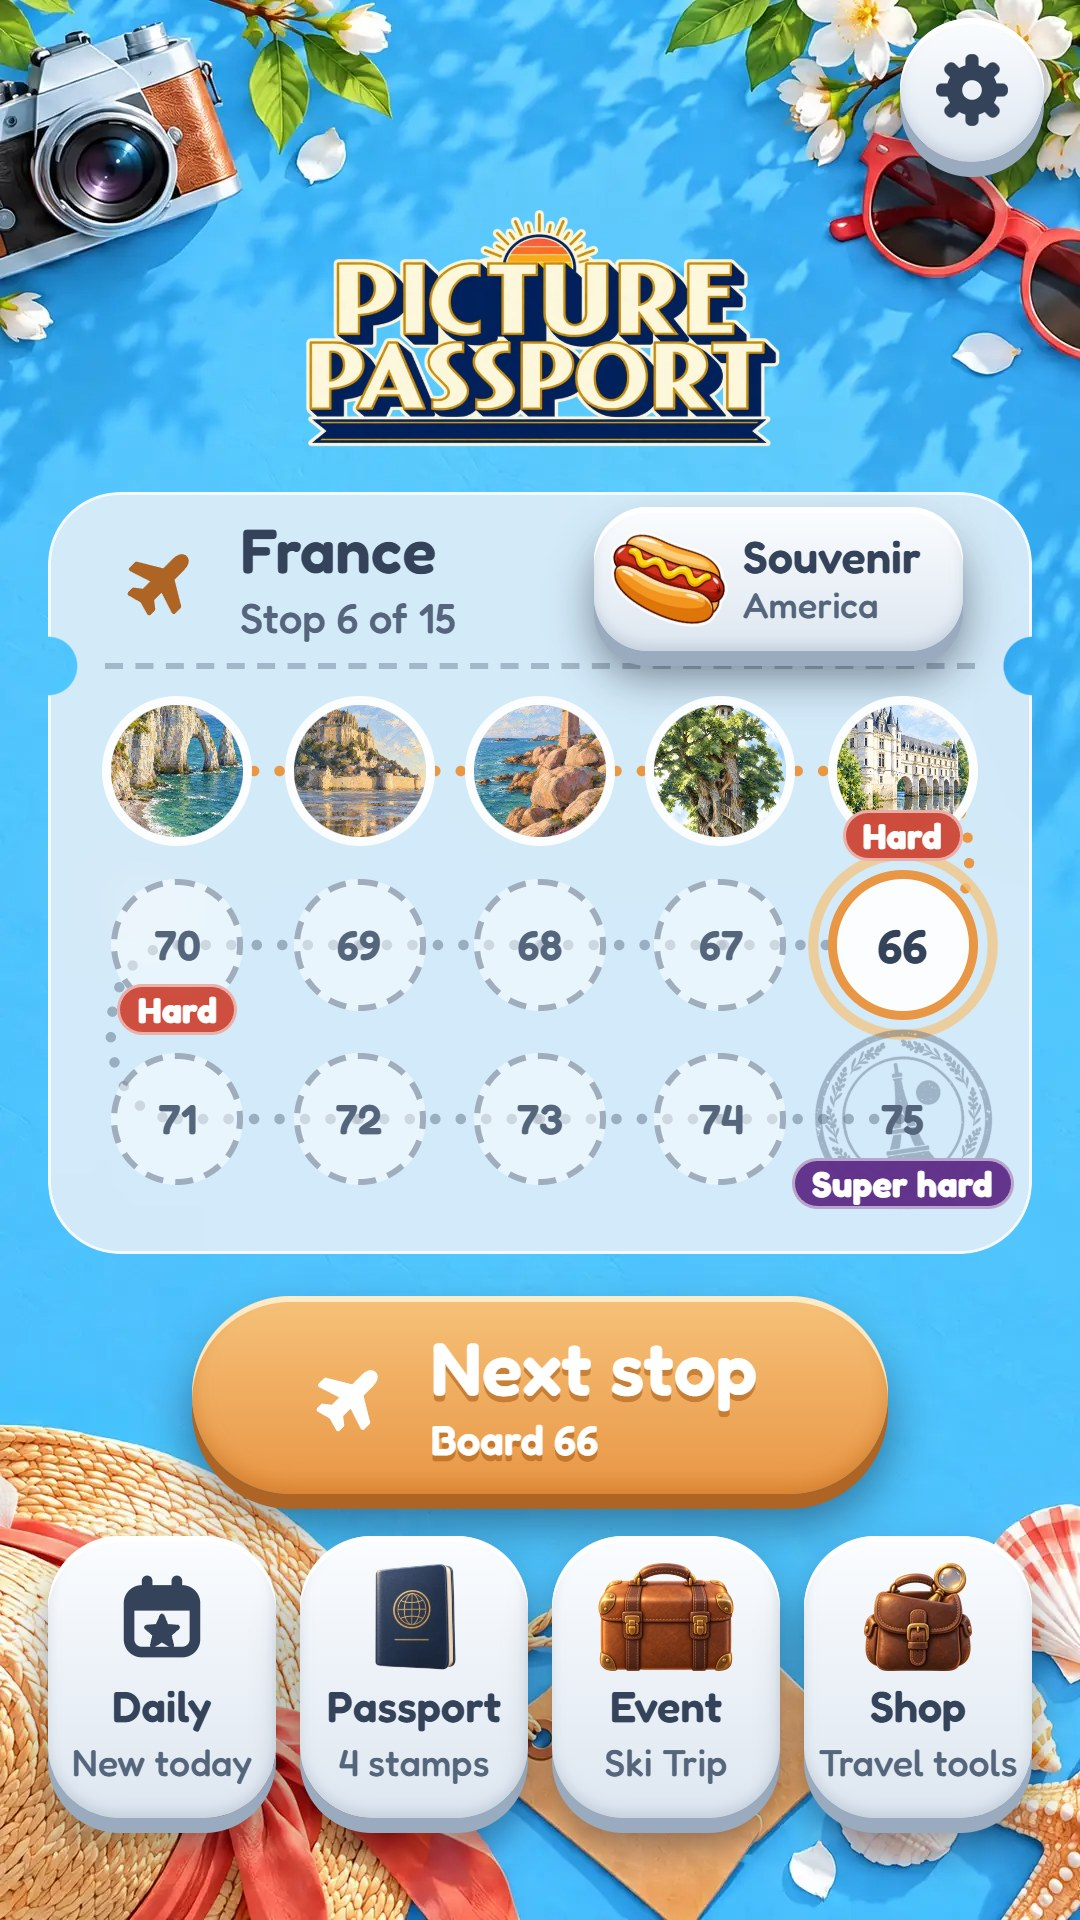
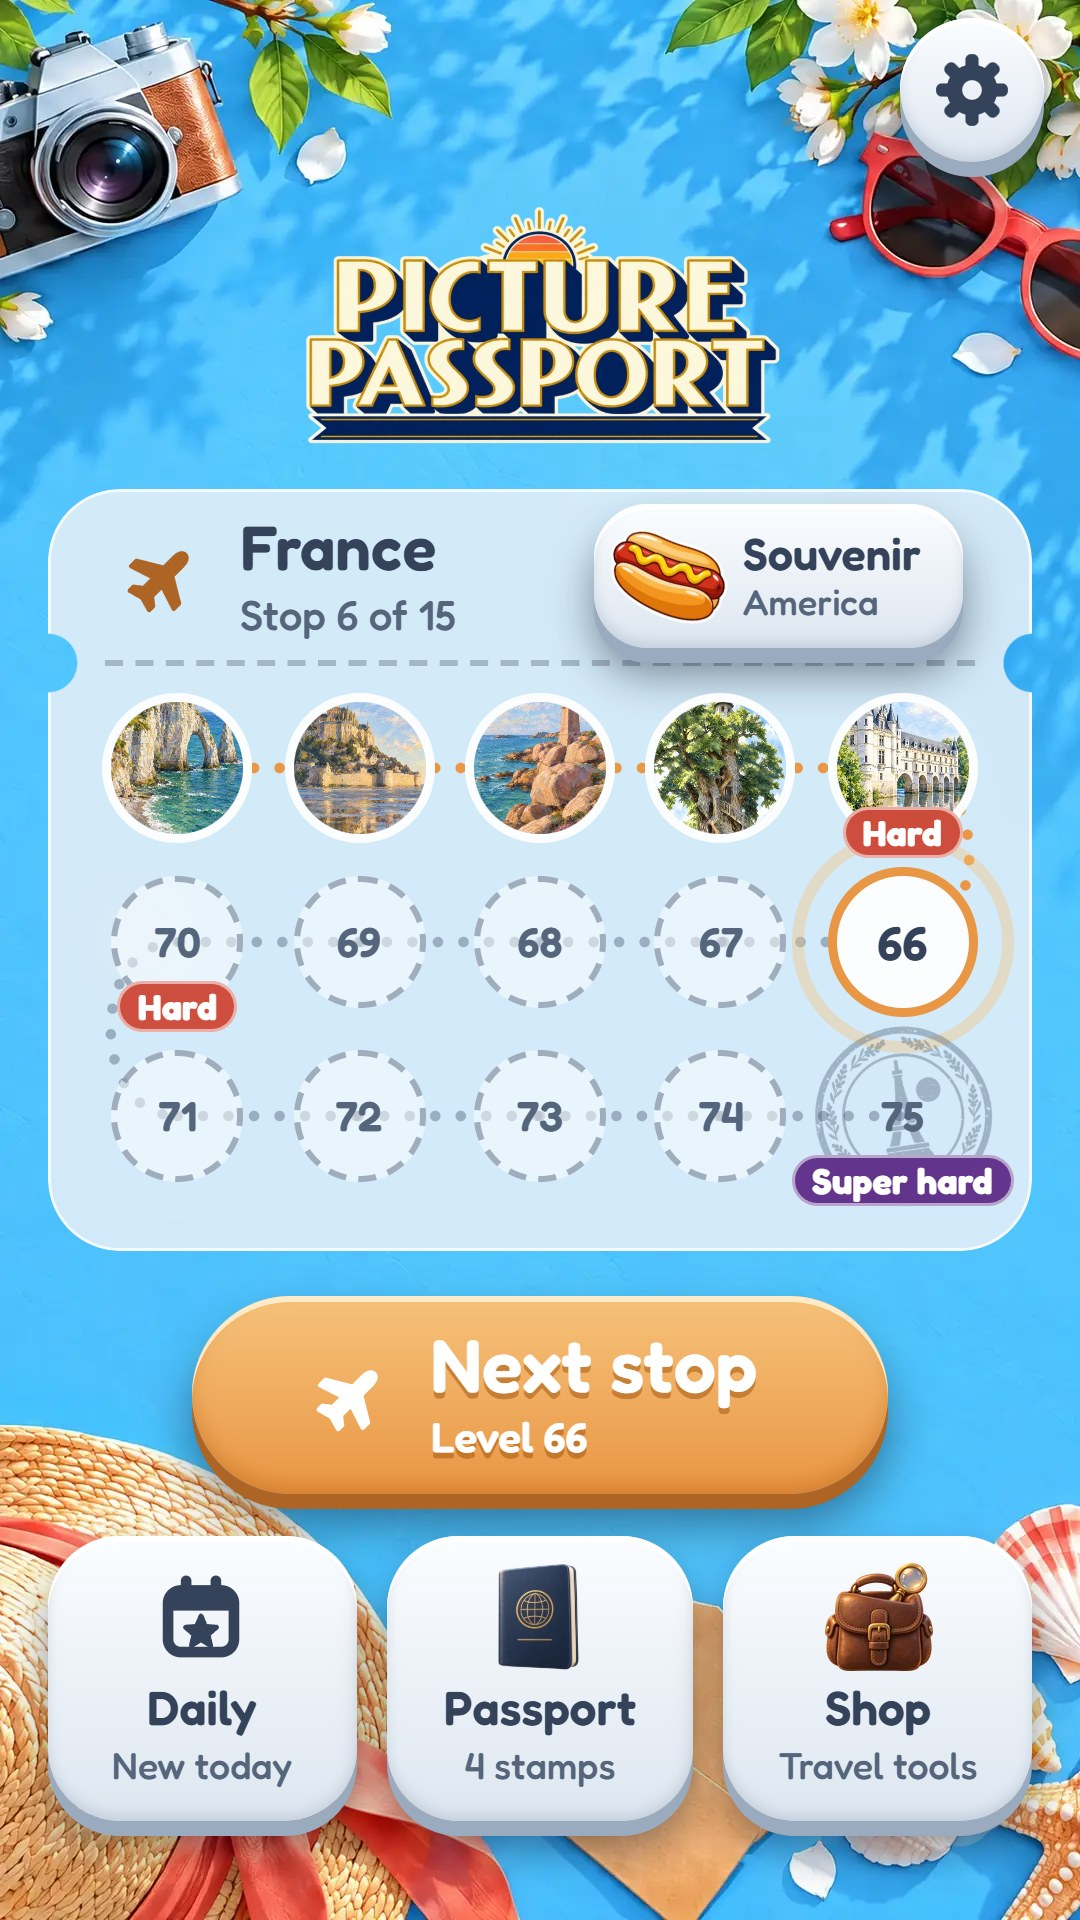
UI: the Daily Suitcase goes on hold behind one switch (the creator via the lead, 2026-10-29: may return after release as a VIP-only event)
The switch is Server's `"on": false` in src/net/suitcase-ids.json (0f45351), read by the checker, make-config and now the screens (src/ui/event-switch.ts), so the game shows the event exactly when the server packs its items. Off:
- home: no Event tile; the dock is Daily, Passport and Shop, three even tiles as wide as the itinerary (two before the first level's Shop), so no layout change was needed
- the daily: the day's item is dealt and finishes as an ordinary picture: no lift-off/starburst moment, no suitcase cut-outs fetched, no "packed" flight or line on the win card (packedMoment), whatever a verdict carries
- suitcase-data.ts asks the platform for nothing: no month, no next-month preview, no shelf, no prize, swap answers "closed"
- the table chooser lists only what the player may choose (owned prize tables still show); no locked Winter Dusk / Ski Lodge "fill <month>'s suitcase"
- a friend's daily dare says "won't count as your daily puzzle" (oneoff.funDailyPlain, new, all 12 locales from each locale's own trip line) instead of "won't fill your suitcase"
Kept for its return: all suitcase code, its strings and translations, docs/daily-suitcase.md. Outside a release build the dev menu's event preview and the play-test's __ps.suitcase stand-in still show it (they count as the event shown while up); the dev menu says the event is on hold. text-fit.mjs turns the stand-in on only for the suitcase's own screen, so its home check sees what players see.
[…]

diff --git a/src/ui/app.ts b/src/ui/app.ts
@@ -85,6 +85,7 @@ import { keepInHand, type InHand } from "../game/in-hand";
 import { createMercyNote } from "./mercy-note";
 import { recentStats } from "./board-stats";
 import { createSuitcase, packedOnCard } from "./suitcase";
+import { eventShown } from "./event-switch";
 import { playItemFound } from "./item-found";
 import { held as heldOf, suitcases, type SuitItem } from "./suitcase-data";
 import { createLessons, type LessonName } from "./lessons";
@@ -133,7 +134,8 @@ const dailyUi = createDaily({
   show: () => show("daily"),
   play: (d) => openPlay({ kind: "daily", d }),
 });
-// the Daily Suitcase (suitcase.ts): the month's event the daily fills, its tile on home, its screen and shelf
+// the Daily Suitcase (suitcase.ts): the month's event the daily fills, its tile on home, its screen and shelf;
+// on hold behind one switch (event-switch.ts: the creator, 2026-10-29), so while it is off none of it shows
 const suitcaseUi = createSuitcase({ home: () => goHome(), show: () => show("suitcase"), daily: () => dailyUi.state(), playEvent: () => void playEventPuzzle() });
 /**
  * The creator's event preview (the dev menu, suitcase-data.ts): the next November daily whose item the
@@ -572,7 +574,7 @@ function drawHomeNote(): void {
   homeNote.replaceChildren(coin, h("span", {}, t("home.lastWin", { count: paid.reduce((sum, v) => sum + (v.status === "paid" ? v.coins : 0), 0) })));
   homeNote.hidden = false;
   for (const v of paid) cueCoins(v, coin);
-  // it says its piece, then goes: the month's banner shares the top row (style.css hides it under the note)
+  // it says its piece, then goes
   clearTimeout(homeNoteTimer);
   homeNoteTimer = window.setTimeout(() => (homeNote.hidden = true), 7000);
 }
@@ -731,8 +733,8 @@ function openLoaded(next: Play): void {
     // board 2, not won before: the Undo lesson, after the first move; the lesson board: Shuffle's
     if (next.kind === "campaign" && next.level === 2 && !isPractice(next) && campaignNext() <= 2) void lessons.offerUndo();
     if (next.kind === "lesson") lessons.startShuffle();
-    // a daily with a suitcase item: the month's cut-outs come now, for its found moment
-    if (next.kind === "daily" && next.d.item) void ensureSuitcase(next.d.item.id.slice(5, 12)).catch(() => undefined);
+    // a daily with a suitcase item: the month's cut-outs come now, for its found moment (none while the event is off)
+    if (next.kind === "daily" && next.d.item && eventShown()) void ensureSuitcase(next.d.item.id.slice(5, 12)).catch(() => undefined);
   }
   show("board");
 }
@@ -1283,10 +1285,12 @@ on("board:won", () => {
 // THE DAY'S ITEM (the Daily Suitcase, suitcase.ts): the board says when the day's item picture is finished
 // (suitcase:item, Gameplay's); on the day's first daily that is a moment of its own (item-found.ts: the item
 // lifts off the board, big, its name, a starburst, then into a small suitcase), and once the checker's
-// verdict says the item was packed, its picture flies into a small suitcase on the win card.
+// verdict says the item was packed, its picture flies into a small suitcase on the win card. While the event is
+// off (event-switch.ts) neither happens: the item's picture finishes on the board as any other picture does.
 /** The day's item as the board drew it: its id and the board's copy of its picture, for the card's flight. */
 let dayItem: { id: string; url: string } | null = null;
 on("suitcase:item", (e) => {
+  if (!eventShown()) return;
   // a practice daily counts only in the creator's event preview (the dev menu: nothing saved or sent)
   if (!play || play.kind !== "daily" || (isPractice(play) && !suitcases.previewing()) || e.again) return;
   dayItem = { id: e.id, url: e.url };
@@ -1307,7 +1311,7 @@ const flownItems = new WeakSet<Verdict>();
 /** The checker packed the day's item (its verdict's `packed`, Server's): the card's line says so and the item flies in. */
 function packedMoment(v: Verdict, line: HTMLElement): void {
   const p = (v as { packed?: { item: string; count: number } }).packed;
-  if (v.status !== "paid" || !p || flownItems.has(v)) return;
+  if (v.status !== "paid" || !p || flownItems.has(v) || !eventShown()) return;
   flownItems.add(v);
   const s = suitcases.current();
   const it: SuitItem = s?.items.find((x) => x.id === p.item) ?? { id: p.item, title: suitcaseItem(p.item)?.title ?? t("case.today") };

diff --git a/src/ui/suitcase-data.ts b/src/ui/suitcase-data.ts
@@ -12,6 +12,10 @@
 //   the play-test tool's stand-in (__ps.suitcase).
 //
 // Nothing here is the device's record: no count, no "paid" flag, no date of its own.
+//
+// ON HOLD (the creator, 2026-10-29): while the shared switch is off (event-switch.ts), the platform's
+// word is never asked for here: no month, no shelf, no prize, no swap, no next event. A pretend month
+// still shows, outside a release build, for the creator's preview and the play-test tool.
 
 import { suitcase as platform, type Suitcase as NetSuitcase, type SwapAnswer } from "../net/suitcase";
 import { currentDaily } from "../net/daily";
@@ -19,6 +23,7 @@ import IDS from "../net/suitcase-ids.json";
 import MONTHS from "../content/levels/suitcases.json";
 import type { HelperKind } from "./stock";
 import { suitcaseItemsOf } from "./catalogue";
+import { EVENT_ON, lookAtEvent } from "./event-switch";
 
 export type { SwapAnswer };
 /** An item: its id (Levels', "item-2026-11-04", also its picture's) and title; `pic` only for a stand-in drawn from elsewhere. */
@@ -89,25 +94,25 @@ export function standIn(): Pretend {
 
 export const suitcases = {
   /** This month's suitcase, or null (not read yet, or no event this month). */
-  current: (): Suitcase | null => (pretend ? pretend.now : platform.current()),
+  current: (): Suitcase | null => (pretend ? pretend.now : EVENT_ON ? platform.current() : null),
   /**
    * The next event, while none is on (home's tile: "Starts Nov 1"; the suitcase as a preview: every
    * slot an outline, the prize, no swap): Levels' next month after the platform's today, with the day
    * it starts. Null while an event is on, or when Levels has no later month.
    */
   upcoming(): { s: Suitcase; starts: string } | null {
-    if (suitcases.current()) return null;
+    if (!EVENT_ON || suitcases.current()) return null;
     const today = currentDaily().date;
     const m = months.find((x) => x.month > today.slice(0, 7));
     return m ? { s: fromLevels(m), starts: `${m.month}-01` } : null;
   },
   /** The shelf: closed months, newest first (empty ones left out: nothing to look back on). */
-  past: (): Suitcase[] => (pretend ? pretend.past : platform.past().filter((s) => Object.values(s.counts).some((n) => n > 0))),
+  past: (): Suitcase[] => (pretend ? pretend.past : EVENT_ON ? platform.past().filter((s) => Object.values(s.counts).some((n) => n > 0)) : []),
   /** A prize that landed since last asked (a swap's, a win's, a read's), once; null otherwise. */
-  lastPrize: (): { month: string; helpers: Partial<Record<HelperKind, number>> } | null => (pretend ? null : platform.lastPrize()),
+  lastPrize: (): { month: string; helpers: Partial<Record<HelperKind, number>> } | null => (pretend || !EVENT_ON ? null : platform.lastPrize()),
   /** Swap 3 spares for missing item `want` (the server picks which spares go; a preview's, here alike). */
   async swap(want: string): Promise<SwapAnswer> {
-    if (!pretend) return platform.swap(want);
+    if (!pretend) return EVENT_ON ? platform.swap(want) : "closed";
     const s = pretend.now;
     if (!s || s.daysLeft <= 0) return "closed";
     if ((s.counts[want] ?? 0) > 0) return "has";
@@ -137,6 +142,7 @@ export const suitcases = {
   pretend(p: Partial<Pretend> | null | "default"): void {
     if (!ALLOWED) return;
     pretend = p === null ? null : p === "default" ? standIn() : { ...(pretend ?? standIn()), ...p };
+    lookAtEvent(!!pretend);
     say();
   },
   /**
@@ -149,6 +155,7 @@ export const suitcases = {
     const nov = months.find((m) => m.month === "2026-11");
     if (!kind || !nov) {
       pretend = null;
+      lookAtEvent(false);
       say();
       return;
     }
@@ -159,6 +166,7 @@ export const suitcases = {
       if (n) counts[it.id] = n;
     });
     pretend = { now: fromLevels(nov, counts, 30), past: [], preview: true };
+    lookAtEvent(true);
     previewCursor = null;
     say();
   },

diff --git a/src/ui/event-switch.ts b/src/ui/event-switch.ts
@@ -1,0 +1,29 @@
+// THE DAILY SUITCASE'S SWITCH (the creator, 2026-10-29: the monthly event is on hold, perhaps to come
+// back after release as a VIP-only event). One value for the whole game: `on` in
+// src/net/suitcase-ids.json, the file the win checker (functions/checker/build.rs), the config
+// generator (tools/server/make-config.mts) and Server's src/net/suitcase.ts read too, so the game shows
+// the event exactly when the server packs its items. Absent or false: off.
+//
+// Off, the player meets no trace of it: no Event tile on home (suitcase.ts), no item moment on the
+// daily (item-found.ts, from app.ts) and no "packed" flight on its win card, no suitcase screen, no
+// locked table "won by a suitcase" in the table chooser (tables.ts), no suitcase in a friend's daily
+// dare (friend-cards.ts). The daily keeps everything else, and the day's item picture is dealt as an
+// ordinary picture. The code, the translations and docs/daily-suitcase.md stay for its return.
+//
+// Outside a release build the creator can still look at it: the dev menu's event preview, and the
+// play-test tool's stand-in (__ps.suitcase), show it while they are up (suitcase-data.ts, looking()).
+
+import IDS from "../net/suitcase-ids.json";
+
+/** The event is on for players (the shared switch). */
+export const EVENT_ON: boolean = (IDS as { on?: unknown }).on === true;
+
+let looking = false;
+
+/** The event shows: on for players, or a pretend month is up for the creator (outside a release build). */
+export const eventShown = (): boolean => EVENT_ON || looking;
+
+/** suitcase-data.ts: a pretend month (the event preview, the play-test's stand-in) is up, or gone. */
+export function lookAtEvent(on: boolean): void {
+  looking = on && import.meta.env.MODE !== "release";
+}

diff --git a/src/ui/suitcase.ts b/src/ui/suitcase.ts
@@ -24,6 +24,10 @@
 //                   holds the card's buttons.
 //   the board       the item's picture finished on a first daily of the day: item-found.ts's moment.
 //
+// ON HOLD (the creator, 2026-10-29): behind one switch (event-switch.ts). While it is off, suitcase-data.ts
+// reports no month, so the tile stays hidden and nothing here reaches a player; the dev menu's preview
+// still opens the screen for the creator.
+//
 // No item is ever shown before its day: the slots show what the player holds, and a missing slot is
 // the item's outline and name (the month's 10 are the theme, known from the 1st; which one comes on
 // which day is not). Information is glass; only what a press answers is a button.
@@ -31,6 +35,7 @@
 import { emit } from "../events";
 import { liveAttr, locale, named, t } from "./i18n";
 import { ICONS } from "./icons";
+import { eventShown } from "./event-switch";
 import { held, spares, suitcases, SWAP_COST, type SuitItem, type Suitcase, type SwapAnswer } from "./suitcase-data";
 import { BUILT_IN_TABLE, knownTable, thumbOf } from "./tables";
 import { shortDate } from "./format";
@@ -408,7 +413,7 @@ export function createSuitcase(nav: Nav) {
   /** Home's tile: "Event" and the theme, this month's or (before it starts) the next one's. */
   function drawTile(): void {
     const s = suitcases.current() ?? suitcases.upcoming()?.s ?? null;
-    tile.hidden = !s;
+    tile.hidden = !s || !eventShown();
     if (!s) return;
     tileName.textContent = t("case.tile");
     tileLine.textContent = themeName(s);

diff --git a/src/ui/tables.ts b/src/ui/tables.ts
@@ -15,6 +15,8 @@
 // `showLocked` that is not, as information, with how to win it: Winter Dusk,
 // every player's table until the game turned sunny, says "Fill December's
 // suitcase" (its month: Levels' suitcases.json), so nobody wonders where it went.
+// While the Daily Suitcase is on hold (event-switch.ts), a table no suitcase can win is simply
+// absent: the picker lists only what the player may choose, an owned prize table included.
 //
 // Which owned table is CHOSEN is the player's setting, and follows them
 // (gem.me.settings "table", AGENTS.md's table); only what they chose is stored.
@@ -32,6 +34,7 @@
 import { gem } from "../gem";
 import { ownedTables } from "../net/keepsake";
 import SCHEDULE from "../content/levels/suitcases.json";
+import { eventShown } from "./event-switch";
 import { t } from "./i18n";
 
 export interface TableArt {
@@ -149,6 +152,8 @@ const prizeMonth = (id: string): string | null =>
 export async function pickerTables(): Promise<PickerTable[]> {
   const mine = await ownedTableArts();
   const have = new Set(mine.map((a) => a.id));
+  // the event on hold: no suitcase wins a table, so none is shown to be won
+  if (!eventShown()) return mine.map((art) => ({ art, lockedMonth: null }));
   const m = await loadManifest();
   const locked = m.tables
     .filter((a) => a.showLocked && !a.souvenir && !have.has(a.id))

diff --git a/src/ui/dev-menu.ts b/src/ui/dev-menu.ts
@@ -43,6 +43,7 @@ import { markOf, markTag } from "./marks";
 import type { BoardHandle, DevStep } from "./board-api";
 import type { Experiment, Play } from "./app";
 import { suitcases } from "./suitcase-data";
+import { EVENT_ON } from "./event-switch";
 
 /** What vite.config.ts stamps in at build time (its `define`). */
 declare const __BUILD_INFO__: { version: string; sdk: string; commit: string; changed: boolean; built: string };
@@ -498,7 +499,9 @@ export function mountDevMenu(host: DevHost): DevMenu {
     const s = suitcases.previewing() ? suitcases.current() : null;
     eventState.textContent = s
       ? `On: ${s.theme}, ${s.items.filter((it) => (s.counts[it.id] ?? 0) > 0).length} of ${s.items.length} packed, ${s.items.reduce((n, it) => n + Math.max(0, (s.counts[it.id] ?? 0) - 1), 0)} spares.`
-      : "Off: the game shows the platform's event (none until 1 Nov: the tile previews it).";
+      : EVENT_ON
+        ? "Off: the game shows the platform's event (none until 1 Nov: the tile previews it)."
+        : "Off. The event is on hold for players (src/net/suitcase-ids.json's \"on\"): no tile, no item moment, no suitcase. The preview still shows it here.";
   };
   suitcases.onChange(drawEvent);
   drawEvent();

diff --git a/src/ui/friend-cards.ts b/src/ui/friend-cards.ts
@@ -20,6 +20,7 @@
 import { t } from "./i18n";
 import { closed, cornerKey, opened } from "./dialogs";
 import { shortDate } from "./format";
+import { eventShown } from "./event-switch";
 import { ICONS, type IconName } from "./icons";
 import {
   challengeFriend,
@@ -303,7 +304,8 @@ export function challengeCard(v: ChallengeView, play: () => void, close: () => v
       h("span", { class: "dare-helpers" }, helpers),
     ),
     note ? h("p", { class: `dare-note${v.peek && !v.answered && !v.notYet ? " peek" : ""}` }, note) : null,
-    h("p", { class: "dare-fun" }, t("board" in dare ? "oneoff.funBoard" : "oneoff.funDaily")),
+    // (a daily's: the suitcase it would not fill is said only while the event is on, event-switch.ts)
+    h("p", { class: "dare-fun" }, t("board" in dare ? "oneoff.funBoard" : eventShown() ? "oneoff.funDaily" : "oneoff.funDailyPlain")),
     v.notYet ? null : button("amber next", "oneoff.play", v.answered ? t("oneoff.again") : t("oneoff.play"), play),
   );
 }

diff --git a/src/ui/home.ts b/src/ui/home.ts
@@ -16,7 +16,8 @@
 //                 event (suitcase.ts: the Daily Suitcase, or the next one before it starts; in the
 //                 challenge route's old place, the creator, 2026-10-27: the route's code stays,
 //                 unreached from home) and, once the first board is done, the Shop (home-shop.ts:
-//                 helpers, one or a pack of 3), as up to four tiles
+//                 helpers, one or a pack of 3), as up to four tiles. The event is on hold (the
+//                 creator, 2026-10-29: event-switch.ts), so players see three: Daily, Passport, Shop
 //
 // Every board won: the itinerary shows the trip of the board Play goes round to, every stop
 // visited and the stamp earned, and the button says Play again.
